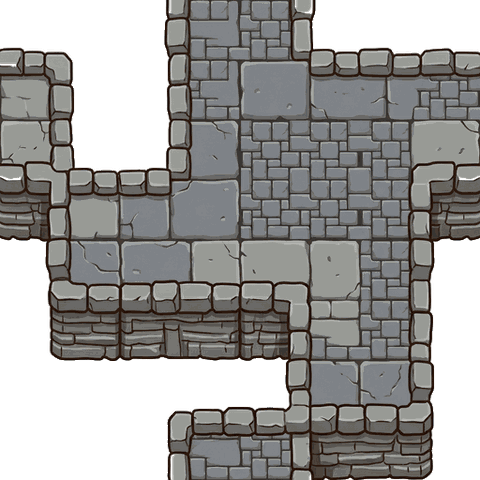
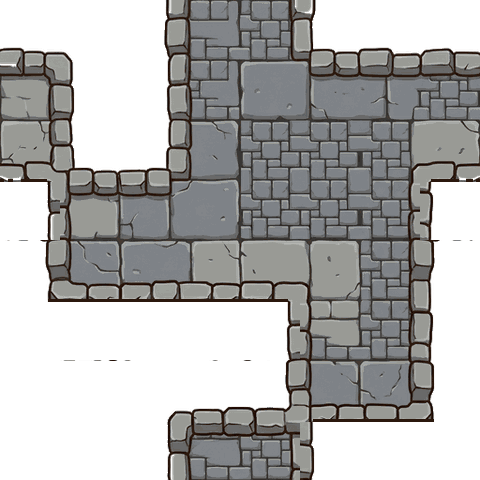
fix(twelve): 11-25 전체검사 — 맵 벽 그림 · 예비 경로 · 그림 판본
- 7지형 성벽 타일셋: 바닥 쪽으로 늘어진 벽 앞면을 지우고 칸 경계에 외곽선 (art/build.py fix_tileset)
- 10지형: 꽉 찬 조각 구멍 메움 + 벽 칸에 꽉 찬 조각을 먼저 깔아 바닥이 비치지 않게
- 3지형: 바닥으로 번진 대각 조각을 다른 대각 조각의 좌우 뒤집기로
- 맵 위·아래 바깥을 카메라가 보는 만큼 벽으로 채움
- loaderror 를 on/off 로: 대원 시트 → 공용 전신, 벽·느린 바닥 오토타일셋 → 이어 붙는 무늬
- 벽 타일셋을 못 읽으면 느린 바닥 오토타일은 제 칸만 (물이 벽을 덮지 않게)
- 아이콘 img 를 못 읽으면 글자 그림으로
- 그림 주소에 빌드 판본 ?v= (Actions 는 커밋 해시) — 서비스 워커의 옛 그림 엇갈림 방지

diff --git a/games/twelve/src/scenes/GameScene.ts b/games/twelve/src/scenes/GameScene.ts
@@ -163,10 +163,23 @@ export class GameScene extends Phaser.Scene {
   preload() {
     // 대원: 전용 시트(앞 · 옆 · 뒤)가 있으면 그것, 없거나 못 읽으면 공용 전신 그림 한 장
     const id = this.run.hero.id;
+    // 못 읽은 그림의 예비 (다른 파일이 먼저 실패해도 놓치지 않게 on 으로 걸고, 다 받으면 뗀다):
+    // 대원 시트 → 공용 전신 그림 · 벽/느린 바닥 오토타일셋 → 이어 붙는 무늬 (art.ts 의 wallArt · slowArt)
+    const backup = new Map<string, [string, string]>();
     if (hasArt(`hero-${id}`)) {
       this.load.spritesheet('hero', artUrl(`hero-${id}`), { frameWidth: HERO_FRAME, frameHeight: HERO_FRAME });
-      this.load.once('loaderror', (f: Phaser.Loader.File) => f.key === 'hero' && this.load.image('hero', heroFullUrl(id)));
+      backup.set('hero', ['hero', heroFullUrl(id)]);
     } else this.load.image('hero', heroFullUrl(id));
+    const region = this.run.map.region;
+    for (const [set, pattern] of [[wallTiles(region), wallArt(region)], [slowTiles(region), slowArt(region)]] as const) if (set && pattern) backup.set(set, [pattern, artUrl(pattern)]);
+    const onError = (f: Phaser.Loader.File) => {
+      const b = backup.get(f.key);
+      if (!b) return;
+      backup.delete(f.key);
+      this.load.image(b[0], b[1]);
+    };
+    this.load.on('loaderror', onError);
+    this.load.once('complete', () => this.load.off('loaderror', onError));
     if (hasArt('exit')) this.load.spritesheet('exit', artUrl('exit'), { frameWidth: EXIT_FRAME, frameHeight: EXIT_FRAME });
     if (hasArt(`ic-u-${id}`)) this.load.image(`ic-u-${id}`, artUrl(`ic-u-${id}`));
     // 보스 공격 동작 (예고 · 내려치기 두 칸)
@@ -420,10 +433,16 @@ export class GameScene extends Phaser.Scene {
    * 카메라 세로 목표: 대원을 가운데보다 조금 아래에. 맵 끝에서는 맵 밖(벽 색)을 조금 보여 준다 —
    * 위는 HUD, 아래는 조이스틱·버튼이 덮어서, 맵 끝에 딱 맞추면 시작 자리의 대원이 버튼 밑에 깔린다.
    */
-  private camTargetY() {
+  /** 카메라 위쪽 끝이 갈 수 있는 범위 (맵이 화면보다 짧으면 가운데 한 곳) */
+  private camRange(): [number, number] {
     const lo = -this.vh * CAM_OVER_TOP;
     const hi = this.run.rows * TILE - this.vh * (1 - CAM_OVER_BOTTOM);
-    return hi < lo ? (lo + hi) / 2 : Phaser.Math.Clamp(this.run.p.y - this.vh * 0.56, lo, hi);
+    return hi < lo ? [(lo + hi) / 2, (lo + hi) / 2] : [lo, hi];
+  }
+
+  private camTargetY() {
+    const [lo, hi] = this.camRange();
+    return Phaser.Math.Clamp(this.run.p.y - this.vh * 0.56, lo, hi);
   }
 
   private onScreen(x: number, y: number, pad: number) {
@@ -926,18 +945,23 @@ export class GameScene extends Phaser.Scene {
     const mud = envId === 'mud' || envId === 'poison';
     const y0 = idx * CHUNK_ROWS;
     const rows = Math.min(CHUNK_ROWS, s.rows - y0);
-    const tex = this.textures.createCanvas(`chunk${idx}`, WORLD_W, rows * TILE)!;
+    // 맵 위 · 아래 끝 조각은 바깥 몇 줄(벽으로 본다)까지 그린다 — 카메라가 맵 끝을 넘어 보여 주는 자리가 단색과 직선으로 갈리지 않게
+    const [camMin, camMax] = this.camRange();
+    const padTop = idx === 0 ? Math.max(0, Math.ceil(-camMin / TILE)) : 0;
+    const padBottom = y0 + rows >= s.rows ? Math.max(0, Math.ceil((camMax + this.vh - s.rows * TILE) / TILE)) : 0;
+    const tex = this.textures.createCanvas(`chunk${idx}`, WORLD_W, (padTop + rows + padBottom) * TILE)!;
     const c = tex.getContext();
+    c.translate(0, padTop * TILE);
     const tile = (x: number, y: number) => (x < 0 || y < 0 || x >= s.cols || y >= s.rows ? 1 : s.grid[y * s.cols + x]);
     c.fillStyle = css(look.floor);
-    c.fillRect(0, 0, WORLD_W, rows * TILE);
+    c.fillRect(0, -padTop * TILE, WORLD_W, (padTop + rows + padBottom) * TILE);
     const floor = floorOf(s.map.region);
     if (this.textures.exists(floor.key)) {
       // 받은 바닥 무늬를 이어 깐다 (지형 전용 무늬는 그대로, 시아디펜스 바닥은 바닥색과 절반쯤 섞는다 — DESIGN.md)
       const img = this.textures.get(floor.key).getSourceImage() as HTMLImageElement;
       c.globalAlpha = floor.alpha;
       const off = (idx * CHUNK_H) % floor.size;
-      for (let y = -off; y < rows * TILE; y += floor.size) for (let x = 0; x < WORLD_W; x += floor.size) c.drawImage(img, x, y, floor.size, floor.size);
+      for (let y = -off - Math.ceil((padTop * TILE) / floor.size) * floor.size; y < (rows + padBottom) * TILE; y += floor.size) for (let x = 0; x < WORLD_W; x += floor.size) c.drawImage(img, x, y, floor.size, floor.size);
       c.globalAlpha = 1;
     }
     // 벽 · 느린 바닥 무늬 (이어 붙는 그림을 칸 자리에 맞춰 잘라 깐다 — 없으면 바닥색과 코드 그림)
@@ -957,7 +981,7 @@ export class GameScene extends Phaser.Scene {
     const wallSet = patternOf(wallTiles(s.map.region));
     const slowSet = patternOf(slowTiles(s.map.region));
     const dual = (img: HTMLImageElement, filled: (x: number, y: number) => boolean) => {
-      for (let vy = y0; vy <= y0 + rows; vy++) {
+      for (let vy = y0 - padTop; vy <= y0 + rows + padBottom; vy++) {
         for (let vx = 0; vx <= s.cols; vx++) {
           const mask = (filled(vx - 1, vy - 1) ? 1 : 0) | (filled(vx, vy - 1) ? 2 : 0) | (filled(vx - 1, vy) ? 4 : 0) | (filled(vx, vy) ? 8 : 0);
           const f = DUAL_FRAME[mask];
@@ -982,7 +1006,7 @@ export class GameScene extends Phaser.Scene {
       c.globalAlpha = 1;
     };
     const groundFrames = [0, 1, 2, 3, 4, 5, 6, 7].filter((f) => !(DECO_SKIP[s.map.region] ?? []).includes(f));
-    for (let ry = 0; ry < rows; ry++) {
+    for (let ry = -padTop; ry < rows + padBottom; ry++) {
       for (let x = 0; x < s.cols; x++) {
         const y = y0 + ry;
         const t = tile(x, y);
@@ -1031,11 +1055,30 @@ export class GameScene extends Phaser.Scene {
       }
     }
     // 느린 바닥 → 벽 차례로 오토타일을 놓는다 (느린 바닥은 벽 밑까지 이어진 것으로 본다 — 벽 옆에 틈이 생기지 않게)
-    if (slowSet) dual(slowSet, (x, y) => tile(x, y) !== 0 && (tile(x, y) === 2 || [[-1, 0], [1, 0], [0, -1], [0, 1], [-1, -1], [1, -1], [-1, 1], [1, 1]].some(([dx, dy]) => tile(x + dx, y + dy) === 2)));
-    if (wallSet) dual(wallSet, (x, y) => tile(x, y) === 1);
+    // 벽 타일셋을 못 읽었으면 느린 바닥은 제 칸만 (벽 칸은 이미 이어 붙는 무늬 · 코드 그림으로 그렸다 — 물이 벽을 덮지 않게)
+    if (slowSet) dual(slowSet, (x, y) => tile(x, y) === 2 || (!!wallSet && tile(x, y) === 1 && [[-1, 0], [1, 0], [0, -1], [0, 1], [-1, -1], [1, -1], [-1, 1], [1, 1]].some(([dx, dy]) => tile(x + dx, y + dy) === 2)));
+    if (wallSet) {
+      // 벽 칸을 먼저 꽉 찬 조각(마스크 15)으로 깐다: 가장자리 조각에 구멍이 있어도(10지형) 바닥 무늬가 비쳐 보이지 않게.
+      // 바닥과 맞닿은 변은 안으로 들여 깐다 — 조각의 둥근 모서리 밖으로 네모가 삐져나오지 않게
+      const IN = 16;
+      const full = DUAL_FRAME[15];
+      const k = TILESET_CELL / TILE;
+      for (let y = y0 - padTop; y < y0 + rows + padBottom; y++) {
+        for (let x = 0; x < s.cols; x++) {
+          if (tile(x, y) !== 1) continue;
+          const l = tile(x - 1, y) === 1 ? 0 : IN;
+          const r = tile(x + 1, y) === 1 ? 0 : IN;
+          const t = tile(x, y - 1) === 1 ? 0 : IN;
+          const b = tile(x, y + 1) === 1 ? 0 : IN;
+          c.drawImage(wallSet, (full % 4) * TILESET_CELL + l * k, Math.floor(full / 4) * TILESET_CELL + t * k, (TILE - l - r) * k, (TILE - t - b) * k, x * TILE + l, (y - y0) * TILE + t, TILE - l - r, TILE - t - b);
+        }
+      }
+      dual(wallSet, (x, y) => tile(x, y) === 1);
+    }
     // 큰 장식: 벽 안쪽(둘레와 위 두 칸이 모두 벽)에만 얹는다 — 길을 가리지 않는다
     if (decoImg) {
-      for (let y = y0 - 1; y <= y0 + rows + 2; y++) {
+      // 맵 아래 바깥은 조작 버튼 밑이라 한 줄까지만 (버튼이 잘 보이게)
+      for (let y = y0 - 1 - padTop; y <= Math.min(y0 + rows + 2, s.rows); y++) {
         for (let x = 0; x < s.cols; x++) {
           if (tile(x, y) !== 1 || hash(x, y, salt + 5) > 0.3 || !all8(x, y, 1) || !all8(x, y - 1, 1)) continue;
           decoAt(x, y, 8 + Math.floor(hash(x, y, salt + 6) * 8), 88 + hash(x, y, salt + 7) * 26, 1);
@@ -1044,7 +1087,7 @@ export class GameScene extends Phaser.Scene {
     }
     // 테두리: 벽과 바닥이 만나는 변에 굵은 갈색 선, 물과 바닥이 만나는 변에 옅은 선 (오토타일셋이 있으면 그 그림의 테두리를 쓴다)
     c.lineCap = 'round';
-    for (let ry = 0; ry < rows; ry++) {
+    for (let ry = -padTop; ry < rows + padBottom; ry++) {
       for (let x = 0; x < s.cols; x++) {
         const y = y0 + ry;
         const t = tile(x, y);
@@ -1070,6 +1113,6 @@ export class GameScene extends Phaser.Scene {
       }
     }
     tex.refresh();
-    return this.add.image(0, idx * CHUNK_H, `chunk${idx}`).setOrigin(0, 0).setDepth(0);
+    return this.add.image(0, idx * CHUNK_H - padTop * TILE, `chunk${idx}`).setOrigin(0, 0).setDepth(0);
   }
 }

diff --git a/games/twelve/src/assets.ts b/games/twelve/src/assets.ts
@@ -6,5 +6,7 @@ const worldRoot = () => new URL('../../', document.baseURI);
 export const heroFullUrl = (id: HeroId) => new URL(`shared/images/zodiac/full/${id}.png`, worldRoot()).href;
 /** 십이지 얼굴 그림 (shared/images/zodiac/face) */
 export const heroFaceUrl = (id: HeroId) => new URL(`shared/images/zodiac/face/${id}.png`, worldRoot()).href;
-/** 게임 그림 (public/art/<이름>.png, ASSETS.md). 요괴·보스·바닥은 시아디펜스 그림을 그대로 쓴다 */
-export const artUrl = (name: string) => `${import.meta.env.BASE_URL}art/${name}.png`;
+/** 그림 판본 (vite.config.ts 의 artVersion — 배포 커밋 해시). 서비스 워커가 옛 그림을 그대로 내주지 않게 주소 뒤에 붙인다 */
+const ART_VER: string = import.meta.env.VITE_ART_VER ?? 'dev';
+/** 게임 그림 (public/art/<이름>.png?v=<판본>, ASSETS.md). 요괴·보스·바닥은 시아디펜스 그림을 그대로 쓴다 */
+export const artUrl = (name: string) => `${import.meta.env.BASE_URL}art/${name}.png?v=${ART_VER}`;

diff --git a/games/twelve/vite.config.ts b/games/twelve/vite.config.ts
@@ -46,8 +46,13 @@ function siaWorldDev(): Plugin {
 }
 
 // 배포: https://<owner>.github.io/SIA-WORLD/games/twelve/ (상대 경로로 빌드해서 어느 주소에 올려도 동작)
+// 그림 판본: public/art/** 주소 뒤에 붙인다 (?v=…). 배포마다 바뀌어서 서비스 워커가 칸 배치가 바뀐 옛 그림을 내주지 않는다.
+// GitHub Actions 에서는 커밋 해시(GITHUB_SHA), 그 밖의 빌드는 빌드 시각, 개발 서버는 'dev'
+const artVersion = (command: string) => (command === 'serve' ? 'dev' : (process.env.GITHUB_SHA?.slice(0, 12) ?? Date.now().toString(36)));
+
 export default defineConfig(({ command }) => ({
   base: command === 'serve' ? '/games/twelve/' : './',
+  define: { 'import.meta.env.VITE_ART_VER': JSON.stringify(artVersion(command)) },
   plugins: [siaWorldDev()],
   build: { chunkSizeWarningLimit: 2000 },
 }));

diff --git a/games/twelve/src/ui/icons.ts b/games/twelve/src/ui/icons.ts
@@ -32,7 +32,8 @@ for (const h of HEROES) BY_EMOJI.set(h.unique.icon, `u-${h.id}`);
 
 const img = (name: IconName, fallback: string) => {
   const art: OptionalArt = `ic-${name}`;
-  return hasArt(art) ? `<img class="ic-img" src="${artUrl(art)}" alt="${fallback}" draggable="false" />` : fallback;
+  // 그림을 못 읽으면(오프라인 · 404) 그 자리를 글자 그림(alt)으로 바꾼다
+  return hasArt(art) ? `<img class="ic-img" src="${artUrl(art)}" alt="${fallback}" draggable="false" onerror="this.replaceWith(this.alt)" />` : fallback;
 };
 
 /** 자료의 글자 그림(장비 · 무기 · 무기 스킬)을 아이콘 그림으로 */

diff --git a/games/twelve/art/build.py b/games/twelve/art/build.py
@@ -290,6 +290,59 @@ def save_scene(img, out):
     img.convert('RGB').quantize(256, method=Image.Quantize.MEDIANCUT, dither=Image.Dither.FLOYDSTEINBERG).save(out, optimize=True)
 
 
+# 오토타일셋 손보기 (2026-11-25 전체검사). 마스크 비트 = 왼쪽 위 1 · 오른쪽 위 2 · 왼쪽 아래 4 · 오른쪽 아래 8 → 칸 번호 (art.ts 의 DUAL_FRAME 과 같다)
+DUAL_FRAME = [-1, 15, 8, 9, 0, 11, 14, 7, 13, 4, 1, 10, 3, 2, 5, 6]
+OUTLINE = (42, 26, 16, 255)
+# drop-face: 3/4 시점이라 벽 앞면이 바닥 쪽 사분면을 채운 타일셋 — 위가 벽 · 아래가 바닥인 사분면의 FACE_CUT 줄 아래를
+#            '위 벽이 없는 조각'(같은 아래 비트)의 같은 자리로 바꾸고, 잘린 자리에 외곽선을 긋는다 (7지형 성벽)
+# fill-full: 꽉 찬 조각(마스크 15)의 구멍을 뒤집은 같은 조각으로 메운다 (10지형)
+# mirror-diag: 대각 조각(마스크 6)을 다른 대각 조각(마스크 9)을 좌우로 뒤집은 것으로 바꾼다 (3지형 — 바닥 쪽으로 번진 칸)
+TS_FIX = {'wt-r07': ['drop-face'], 'wt-r10': ['fill-full'], 'wt-r03': ['mirror-diag']}
+FACE_CUT = 62
+
+
+def ts_cell(sheet, mask):
+    f = DUAL_FRAME[mask]
+    return ((f % 4) * TS_CELL, (f // 4) * TS_CELL, (f % 4) * TS_CELL + TS_CELL, (f // 4) * TS_CELL + TS_CELL)
+
+
+def fix_tileset(name, sheet):
+    out = sheet.copy()
+    half = TS_CELL // 2
+    for fix in TS_FIX.get(name, []):
+        if fix == 'drop-face':
+            for m in range(1, 16):
+                # 바닥인 아래 사분면 위의 벽 비트를 지운 조각 = 앞면이 늘어지지 않은 모양
+                src = m & ~(1 if not m & 4 else 0) & ~(2 if not m & 8 else 0)
+                if src == m:
+                    continue
+                cell = sheet.crop(ts_cell(sheet, m))
+                ref = sheet.crop(ts_cell(sheet, src)) if src else Image.new('RGBA', (TS_CELL, TS_CELL), (0, 0, 0, 0))
+                px, rp = cell.load(), ref.load()
+                for qx, bit in ((0, 4), (half, 8)):
+                    if m & bit:
+                        continue
+                    for x in range(qx, qx + half):
+                        top = px[x, FACE_CUT - 4][3] > 128
+                        for y in range(FACE_CUT, TS_CELL):
+                            px[x, y] = rp[x, y]
+                        if top and px[x, FACE_CUT][3] < 128:
+                            for y in range(FACE_CUT - 3, FACE_CUT):
+                                px[x, y] = OUTLINE
+                out.paste(cell, ts_cell(sheet, m)[:2])
+        elif fix == 'fill-full':
+            box = ts_cell(sheet, 15)
+            cell = sheet.crop(box)
+            under = Image.new('RGBA', cell.size, (0, 0, 0, 0))
+            for alt in (cell.transpose(Image.ROTATE_180), cell.transpose(Image.FLIP_TOP_BOTTOM), cell.transpose(Image.FLIP_LEFT_RIGHT)):
+                under.alpha_composite(alt)
+            under.alpha_composite(cell)
+            out.paste(under, box[:2])
+        elif fix == 'mirror-diag':
+            out.paste(sheet.crop(ts_cell(sheet, 9)).transpose(Image.FLIP_LEFT_RIGHT), ts_cell(sheet, 6)[:2])
+    return out
+
+
 def main():
     ids = dict(line.strip().split('\t') for line in open(os.path.join(HERE, 'ids.tsv'), encoding='utf-8') if '\t' in line)
     assets = []
@@ -348,7 +401,8 @@ def main():
         raw = os.path.join(RAW, src_name + '.png')
         if os.path.exists(raw):
             src = Image.open(raw).convert('RGBA')
-            save(src.convert('RGBa').resize((TS_CELL * 4, TS_CELL * 4), Image.LANCZOS).convert('RGBA'), os.path.join(OUT, name + '.png'))
+            sheet = src.convert('RGBa').resize((TS_CELL * 4, TS_CELL * 4), Image.LANCZOS).convert('RGBA')
+            save(fix_tileset(name, sheet), os.path.join(OUT, name + '.png'))
         add(src_name, name, (TS_CELL * 4, TS_CELL * 4), f'{"벽" if name.startswith("wt") else "느린 바닥"} 오토타일셋 (15-piece dual-grid, 4x4 칸 {TS_CELL}px · generate_tileset detailed topdown 128px · {MODEL})')
 
     # 장식 시트: 칸마다 잘라 아래 가운데에 맞춘다

diff --git a/games/twelve/ASSETS.md b/games/twelve/ASSETS.md
@@ -1,11 +1,22 @@
 # 시아열두길 — 그림·소리 현황과 만들 것
 
+## 11-25 전체검사 고침 — 맵 그림 경로
+
+- **7지형 성벽 `wt-r07`**: 3/4 시점이라 벽 앞면이 바닥 쪽 사분면을 채워(마스크 1 · 2 · 3 · 6 · 7 · 9 · 11) 벽 밑 바닥 30px 가 벽처럼 보였다 → `art/build.py` 의 `fix_tileset`('drop-face')이 위가 벽 · 아래가 바닥인 사분면의 62줄 아래를 '위 벽이 없는 같은 아래 조각'의 그 자리로 바꾸고 잘린 자리에 외곽선을 긋는다. 벽 아랫변이 칸 경계에 딱 맞는다(한 칸 통로가 막혀 보이지 않는다).
+- **10지형 `wt-r10`**: 꽉 찬 조각(칸 6)의 구멍을 뒤집은 같은 조각으로 메웠다('fill-full'). 판도 벽 오토타일을 깔기 전에 벽 칸마다 꽉 찬 조각을 먼저 깐다(바닥과 맞닿은 변은 16px 들여서 — 둥근 모서리 밖으로 네모가 안 나오게) → 가장자리 조각의 구멍으로 바닥 무늬가 비치지 않는다. 모든 지형에 같다.
+- **3지형 `wt-r03`**: 바닥 쪽으로 번진 대각 조각(마스크 6, 칸 14)을 다른 대각 조각(마스크 9)을 좌우로 뒤집은 것으로 바꿨다('mirror-diag').
+- 원본(`art/raw/ts-r03|r07|r10.png`)을 두고 `python art/build.py` 를 다시 돌리면 같은 결과가 나온다 (손볼 목록은 `TS_FIX`).
+- **맵 위 · 아래 바깥**: 카메라가 맵 끝을 넘어 보여 주는 만큼(`camRange` 로 계산) 첫 · 마지막 조각에 바깥 줄을 벽으로 더 그린다 — 단색과 무늬 벽 사이의 직선 경계가 없어졌다. 아래 바깥에는 큰 장식을 한 줄까지만 얹는다(조작 버튼이 잘 보이게).
+- **예비 경로**: 대원 시트 · 벽 · 느린 바닥 오토타일셋을 못 읽으면 `loaderror` 에서 각각 공용 전신 그림 · `wall-r*` · `slow-*` 이어 붙는 무늬를 이어 받는다(`on` 으로 걸고 다 받으면 뗀다 — 다른 파일이 먼저 실패해도 놓치지 않는다). 벽 타일셋만 못 읽었을 때는 느린 바닥 오토타일을 제 칸에만 깔아 물이 벽을 덮지 않는다. 아이콘 `<img>` 는 못 읽으면 글자 그림(alt)으로 바뀐다.
+- **그림 판본**: `artUrl` 이 `?v=<판본>` 을 붙인다(`vite.config.ts` 의 `artVersion` — Actions 에서는 커밋 해시 `GITHUB_SHA`, 그 밖의 빌드는 빌드 시각, 개발 서버는 `dev`). 배포 직후 서비스 워커가 칸 배치가 바뀐 옛 그림을 내주지 않는다.
+- 아쉬운 점: 7지형 벽은 앞면(벽돌 면)이 거의 보이지 않게 됐다(위에서 본 성벽 윗면 + 테두리) · 10지형 가장자리 조각의 흩어진 작은 조각 사이에 아직 좁은 틈이 조금 보인다 · 3지형 대각 조각은 뒤집은 것이라 그늘 방향이 반대다.
+
 ## 12단계 결과 (2026-11-25) — 맵을 자연스럽게: 벽 오토타일 · 장식
 
 - 쓴 크레딧 **408** (`generate_tileset` detailed · topdown · 15-piece · 128px = 한 벌 12 × 16벌 192, 장식 시트 2K 18 × 12장 216).
 - **벽 오토타일셋 12** `wt-r01~r12` · **느린 바닥 오토타일셋 4** `st-water|mud|poison|fire` (4x4 · 칸 120px, dual-grid 15칸). `GameScene.makeChunk` 가 칸 네 개가 만나는 꼭짓점마다 한 조각을 놓는다(`art.ts` 의 `DUAL_FRAME`) → 벽 · 물 · 진흙 · 독 늪 · 불바닥의 가장자리가 모서리 · 곡선으로 이어지고, **코드가 그리던 굵은 갈색 테두리 선은 오토타일에서는 그리지 않는다**(그림의 가장자리를 쓴다). 느린 바닥은 벽 밑까지 이어진 것으로 보고 깐다(벽 옆에 틈이 안 생긴다).
 - **장식 시트 12** `deco-r01~r12` (4x4 · 칸 128px: 앞 8칸 바닥 장식 — 풀 · 꽃 · 돌 …, 뒤 8칸 큰 장식 — 나무 · 바위 · 석등 · 장승 …). 자리와 종류는 맵 · 칸 번호로 정해져 언제나 같다. 바닥 장식은 둘레 8칸이 모두 바닥인 칸의 20%에(좁은 통로 · 출발 자리 · 출구 · 상자 둘레는 비움), 큰 장식은 벽 안쪽(둘레와 위 칸이 모두 벽)의 30%에 얹는다. 그림일 뿐 충돌은 없고, 바닥 조각 캔버스에 한 번만 그린다(움직이는 물체가 늘지 않는다).
-- 판정(`sim` · 맵 데이터)은 그대로다 — 벽 충돌은 여전히 네모 칸이고 그림만 둥글다. 그림을 못 읽으면 11단계의 이어 붙는 무늬(`wall-r*` · `slow-*`) + 갈색 테두리 선 → 그것도 없으면 바닥색과 코드 그림으로 돌아간다. 끝없는 탑 · 최종보스맵도 같은 코드로 그린다.
+- 판정(`sim` · 맵 데이터)은 그대로다 — 벽 충돌은 여전히 네모 칸이고 그림만 둥글다. 그림을 못 읽으면 11단계의 이어 붙는 무늬(`wall-r*` · `slow-*`, 오토타일셋을 못 읽은 순간 `loaderror` 에서 이어 받는다) + 갈색 테두리 선 → 그것도 없으면 바닥색과 코드 그림으로 돌아간다. 끝없는 탑 · 최종보스맵도 같은 코드로 그린다.
 - **텍스처 메모리** (`game.textures` 소스 합 = 너비 × 높이 × 4, 430×860 화면에서 맵마다 4번 맵을 조금 걸은 뒤): 1지형 16.1MB · 2 14.3 · 3 14.1 · 4 15.1 · 5 13.2 · 6 17.8 · 7 14.5 · 8 15.2 · 9 15.2 · 10 15.4 · 11 16.5 · 12 14.7 · 최종보스맵 19.3 · 끝없는 탑 1층 13.0MB (한도 40MB). 이번에 늘어난 것은 맵마다 벽 타일셋 0.9MB + 느린 바닥 타일셋 0.9MB + 장식 시트 1.0MB (대신 이어 붙는 무늬 두 장 0.5MB 는 받지 않는다).
 - 아쉬운 점: 물 · 불바닥 타일셋은 안쪽 조각끼리 무늬가 완전히 이어지지 않아 넓은 면에서 칸 자국이 옅게 보인다 · 2지형 벽은 논둑이 아니라 풀 두른 밭처럼, 9지형 벽은 붉은 마루처럼 나왔다 · 벽 타일셋은 대원 · 요괴보다 잔무늬가 많은 화풍이다 · 장승의 글자가 엉터리다 · 바닥 무늬는 여전히 한 장 반복이다(바닥 무늬 섞기는 하지 않았다).
 
